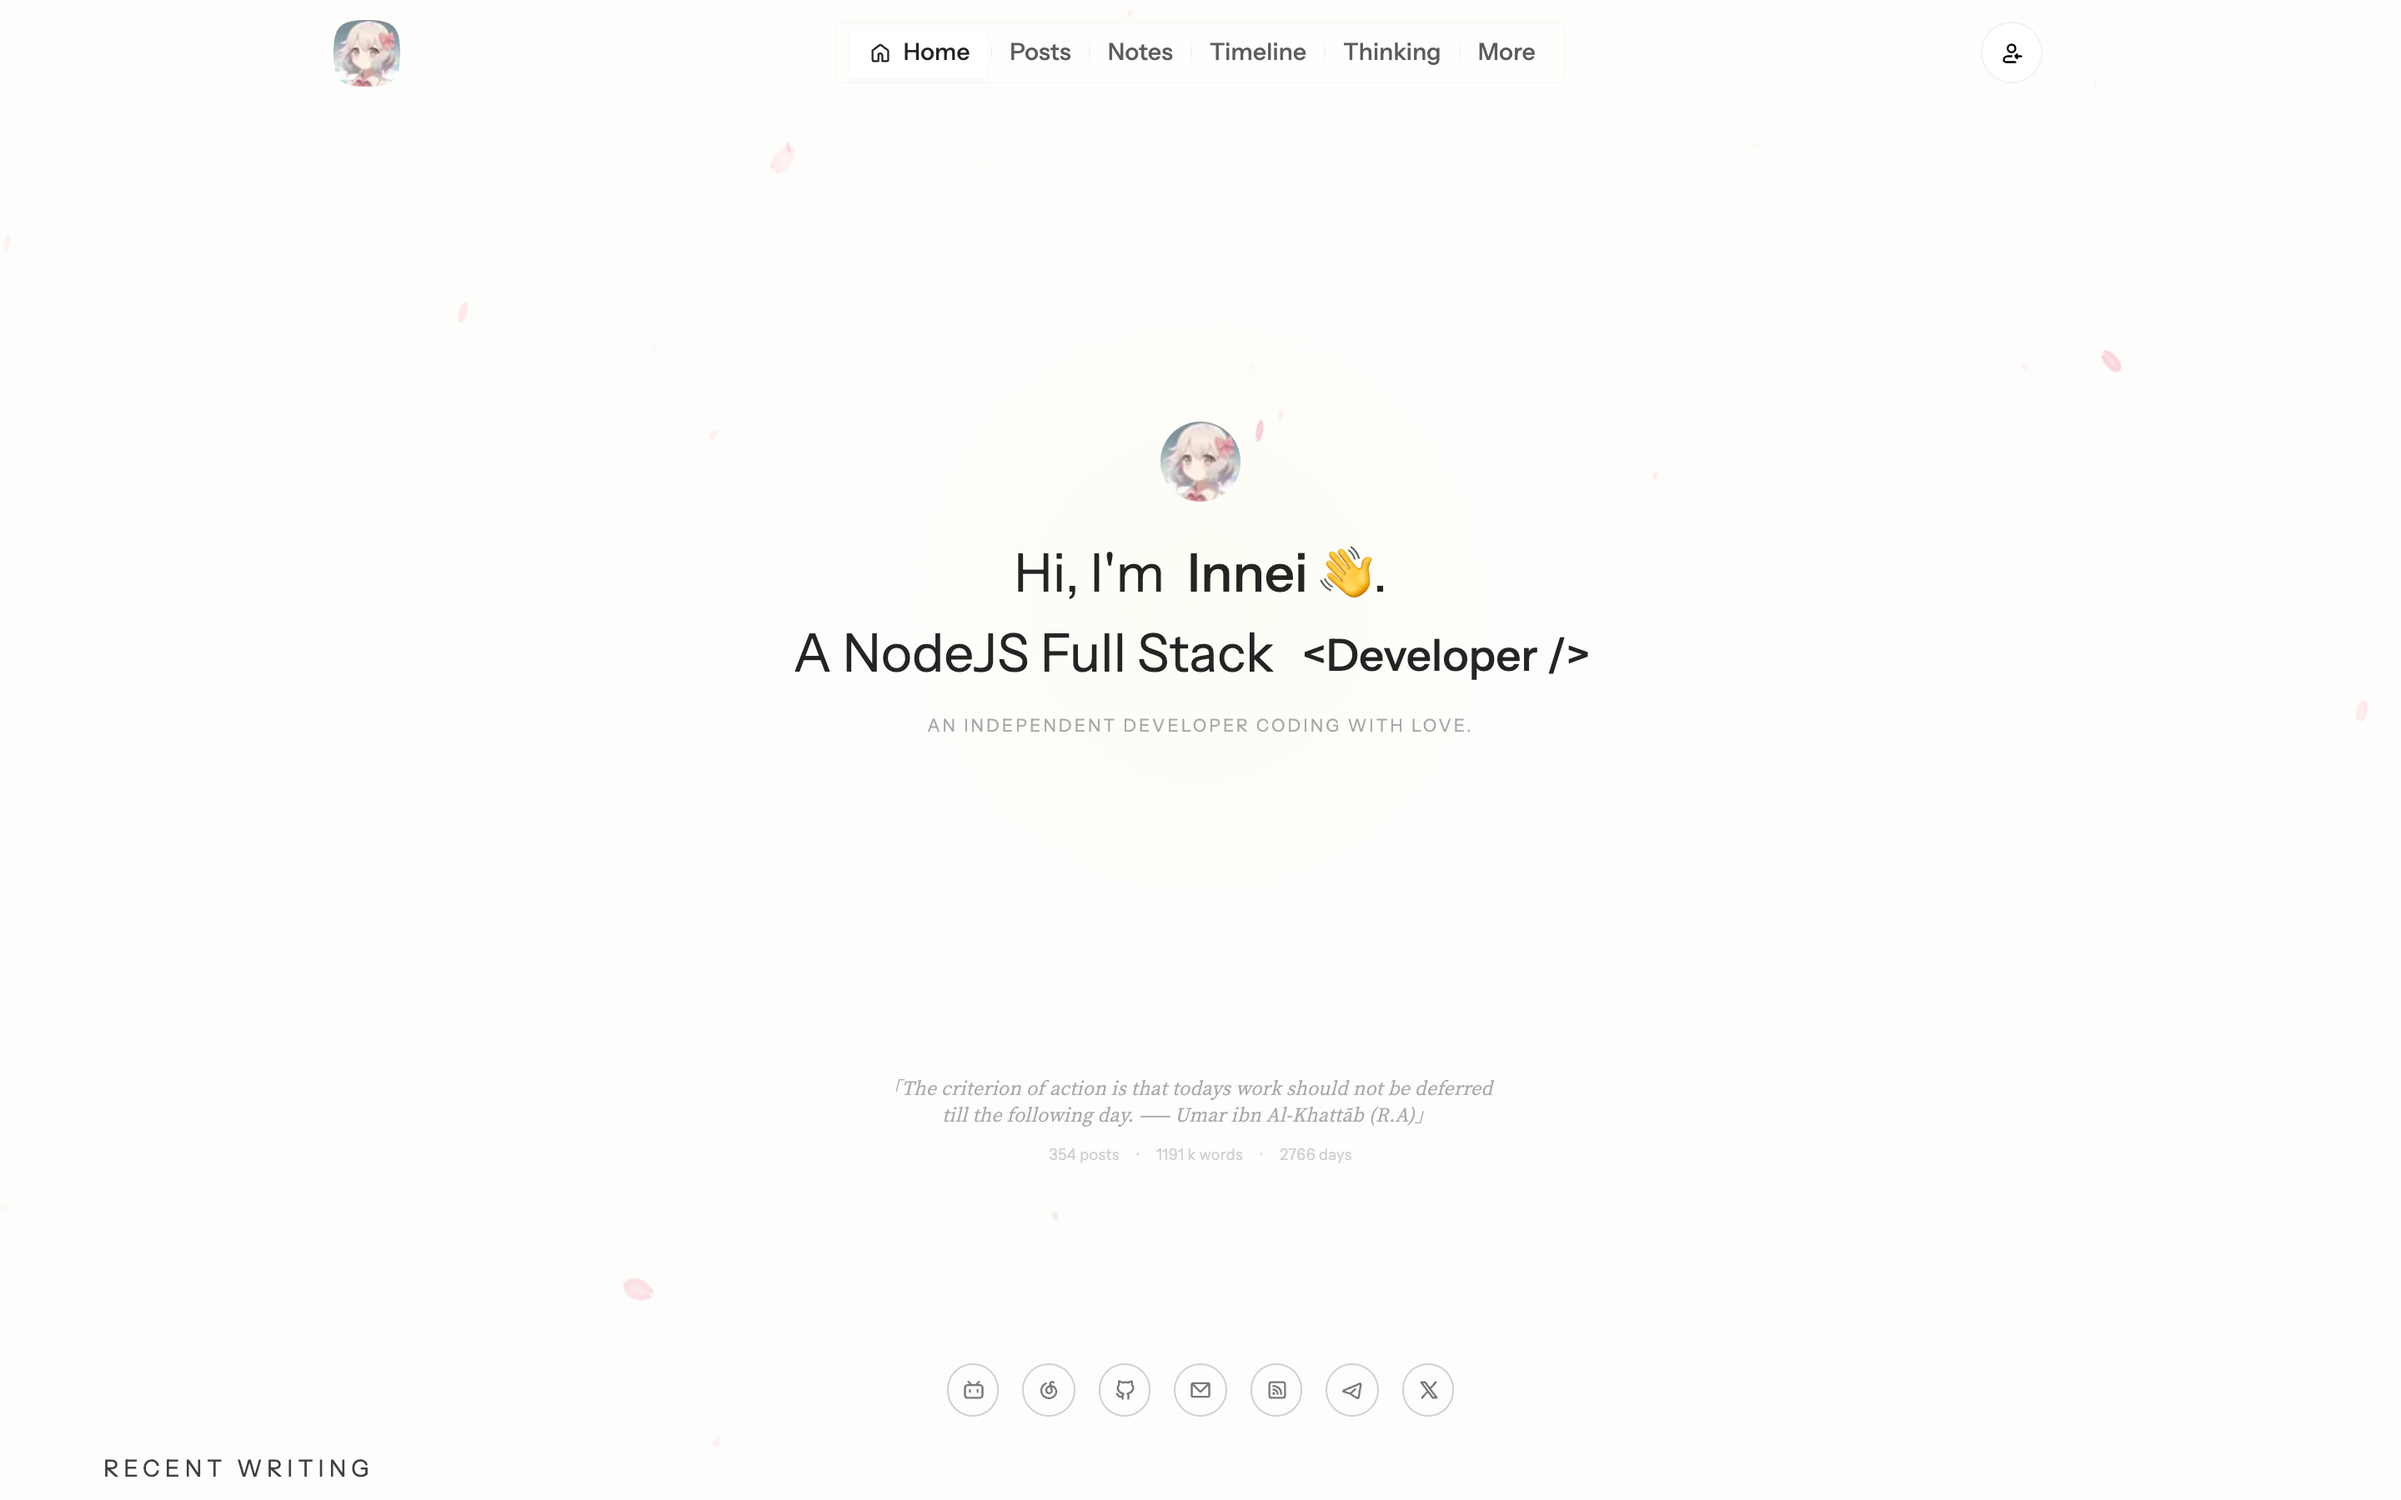
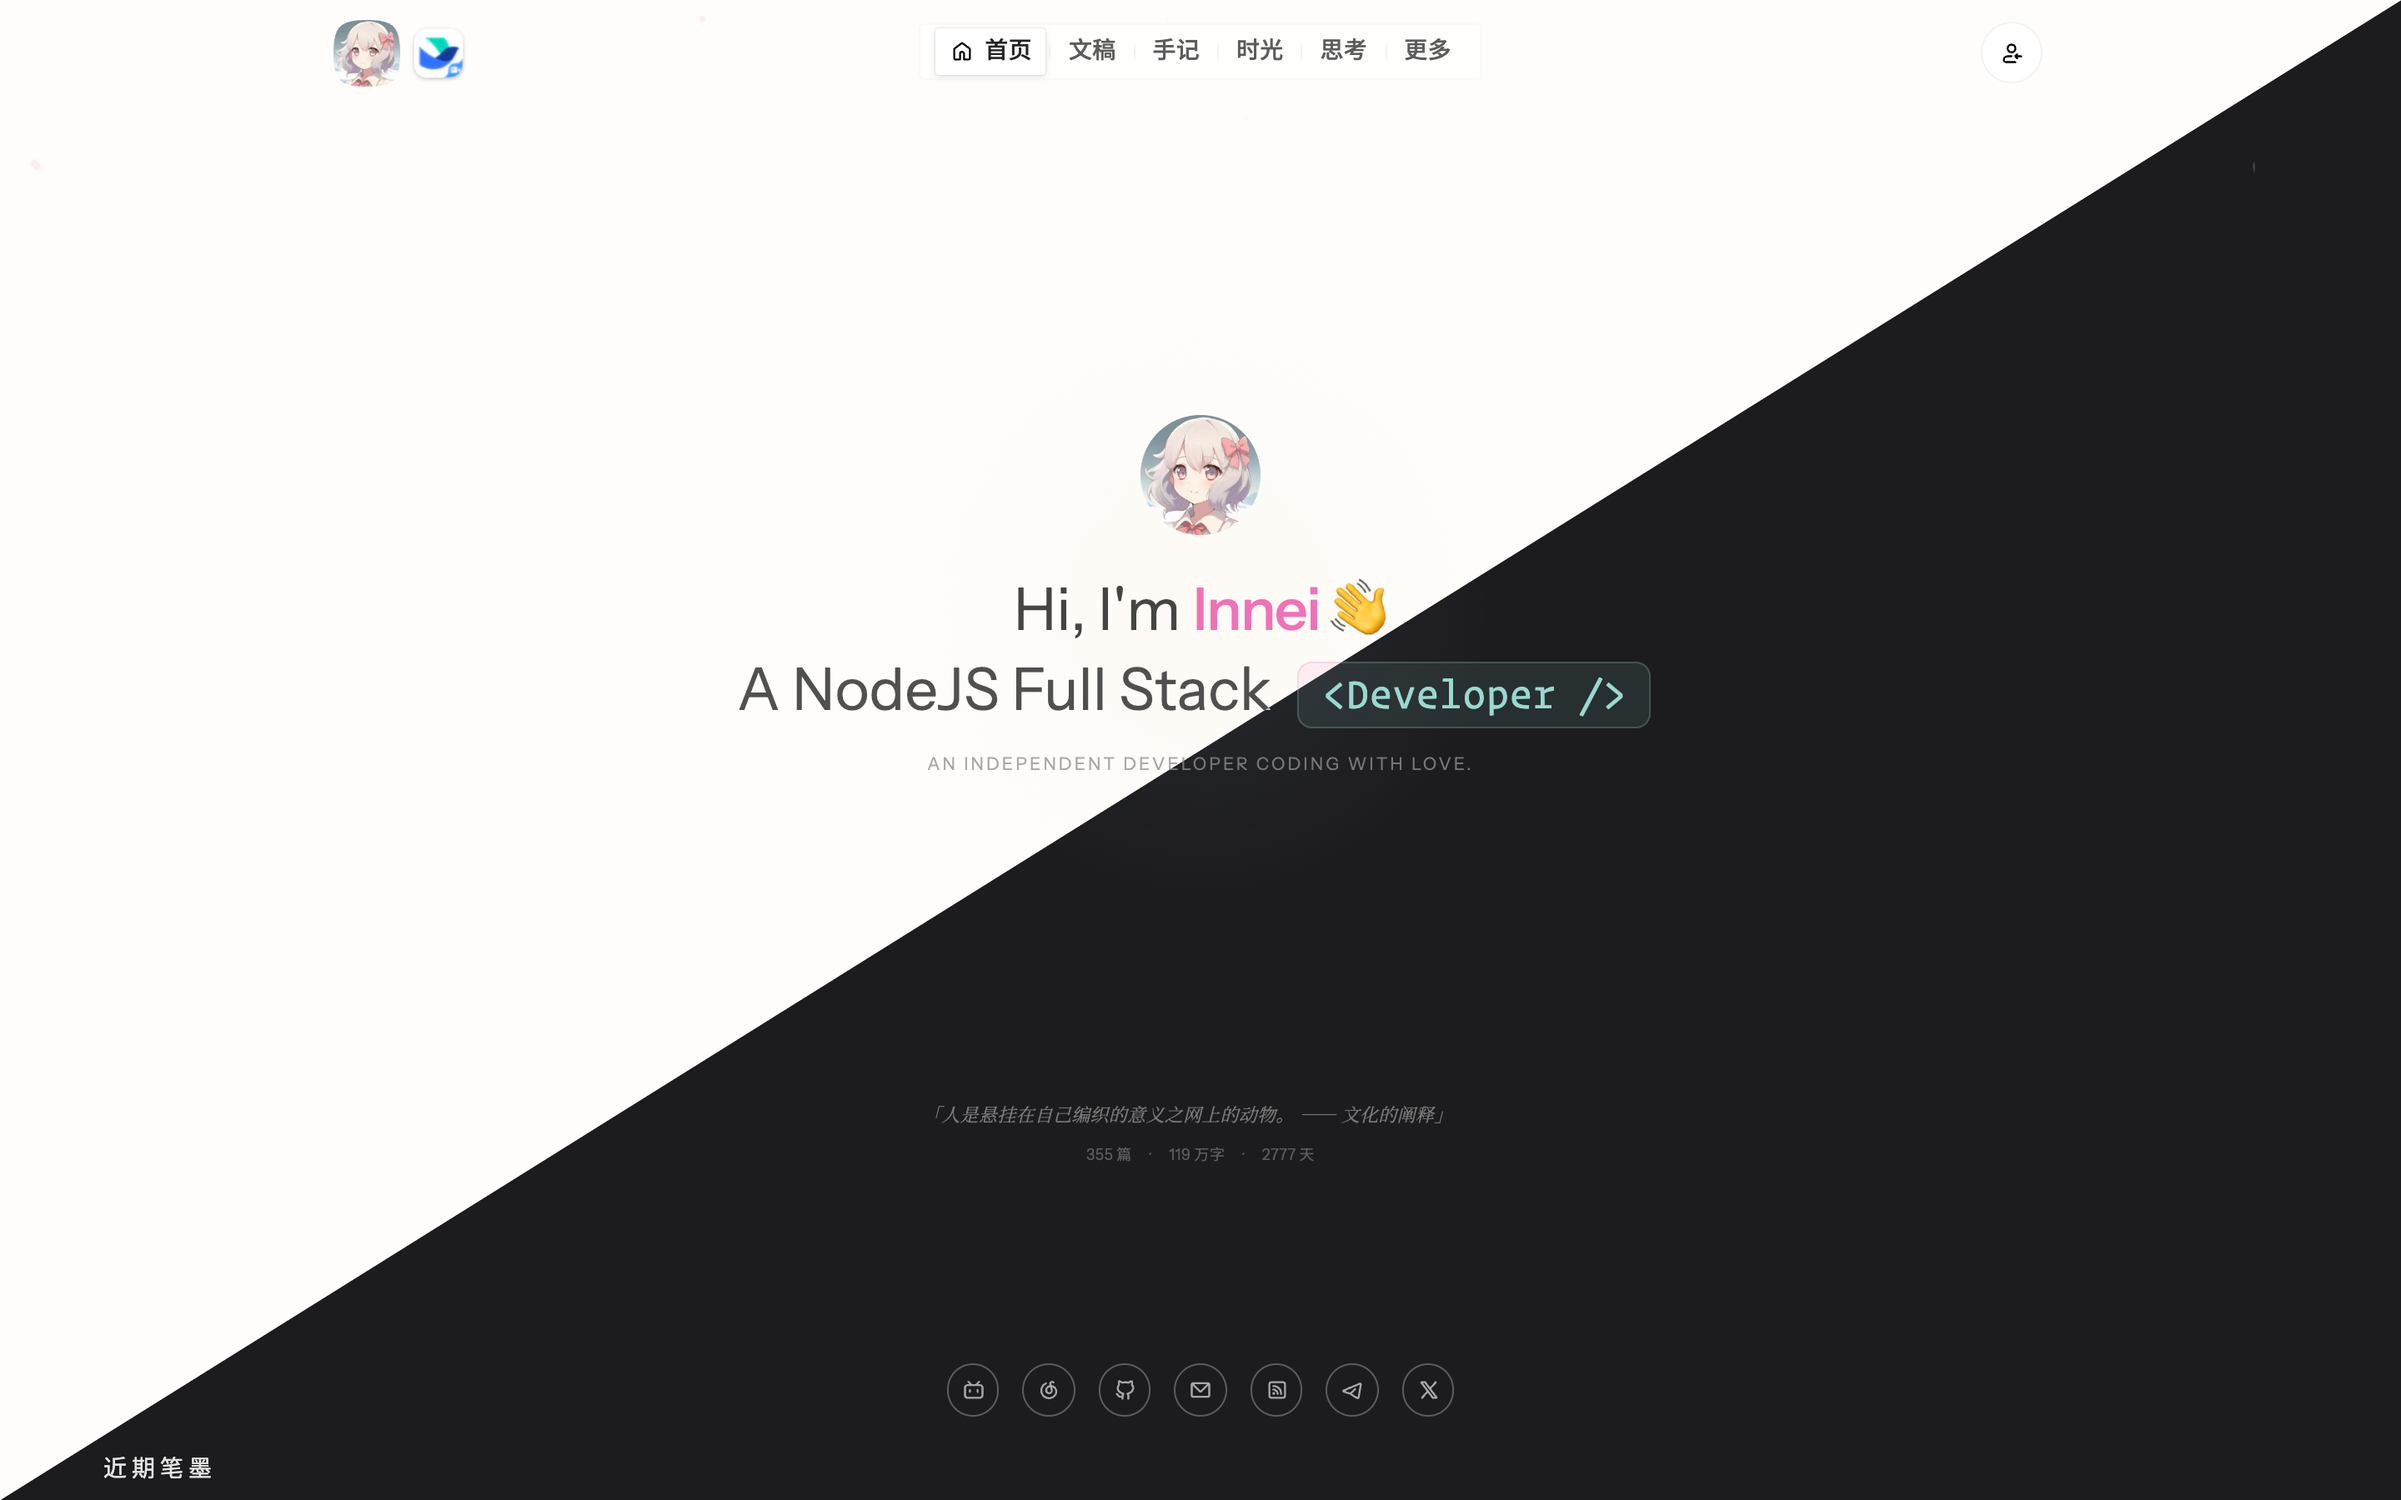
update

diff --git a/README.ja.md b/README.ja.md
@@ -8,11 +8,17 @@
 
 これは個人ブログのためのデザイン言語とビジュアルシステムです。「書写・信紙・光影」という隐喩のもとに構築されています。機能一覧ではなく、「いかにして読書を生み出すか」という問いへの答えです。
 
-![プレビュー - ホーム](./assets/preview-home.png)
+> 下のプレビューは対角線で分割されています——左上がライト、右下がダーク。
 
-![プレビュー - 記事一覧](./assets/preview-posts.png)
+![プレビュー - ホーム（ライト / ダーク）](./assets/preview-home.png)
 
-![プレビュー - ノート](./assets/preview-notes.png)
+![プレビュー - 記事一覧（ライト / ダーク）](./assets/preview-posts.png)
+
+![プレビュー - ノート（ライト / ダーク）](./assets/preview-notes.png)
+
+![プレビュー - タイムライン（ライト / ダーク）](./assets/preview-timeline.png)
+
+![プレビュー - 思考（ライト / ダーク）](./assets/preview-thinking.png)
 
 ---
 

diff --git a/README.md b/README.md
@@ -8,11 +8,17 @@
 
 这是一套个人博客的设计语言与视觉体系，建立在「書写·信纸·光影」的隐喻之上。它不是一个功能清单，而是一种关于「如何让阅读发生」的回答。
 
-![设计预览 - 首页](./assets/preview-home.png)
+> 下列预览以对角线切分，左上为浅色，右下为深色。
 
-![设计预览 - 文章列表](./assets/preview-posts.png)
+![设计预览 - 首页（浅色 / 深色）](./assets/preview-home.png)
 
-![设计预览 - 手记](./assets/preview-notes.png)
+![设计预览 - 文章列表（浅色 / 深色）](./assets/preview-posts.png)
+
+![设计预览 - 手记（浅色 / 深色）](./assets/preview-notes.png)
+
+![设计预览 - 时光（浅色 / 深色）](./assets/preview-timeline.png)
+
+![设计预览 - 思考（浅色 / 深色）](./assets/preview-thinking.png)
 
 ---
 

diff --git a/README.en.md b/README.en.md
@@ -8,11 +8,17 @@
 
 This is a design language and visual system for a personal blog, built around the metaphor of *Writing · Letter Paper · Light and Shadow*. It is not a feature list. It is an answer to the question: how do you make reading happen?
 
-![Preview - Home](./assets/preview-home.png)
+> The previews below are diagonally split — light on the top-left, dark on the bottom-right.
 
-![Preview - Posts](./assets/preview-posts.png)
+![Preview - Home (light / dark)](./assets/preview-home.png)
 
-![Preview - Notes](./assets/preview-notes.png)
+![Preview - Posts (light / dark)](./assets/preview-posts.png)
+
+![Preview - Notes (light / dark)](./assets/preview-notes.png)
+
+![Preview - Timeline (light / dark)](./assets/preview-timeline.png)
+
+![Preview - Thinking (light / dark)](./assets/preview-thinking.png)
 
 ---
 
